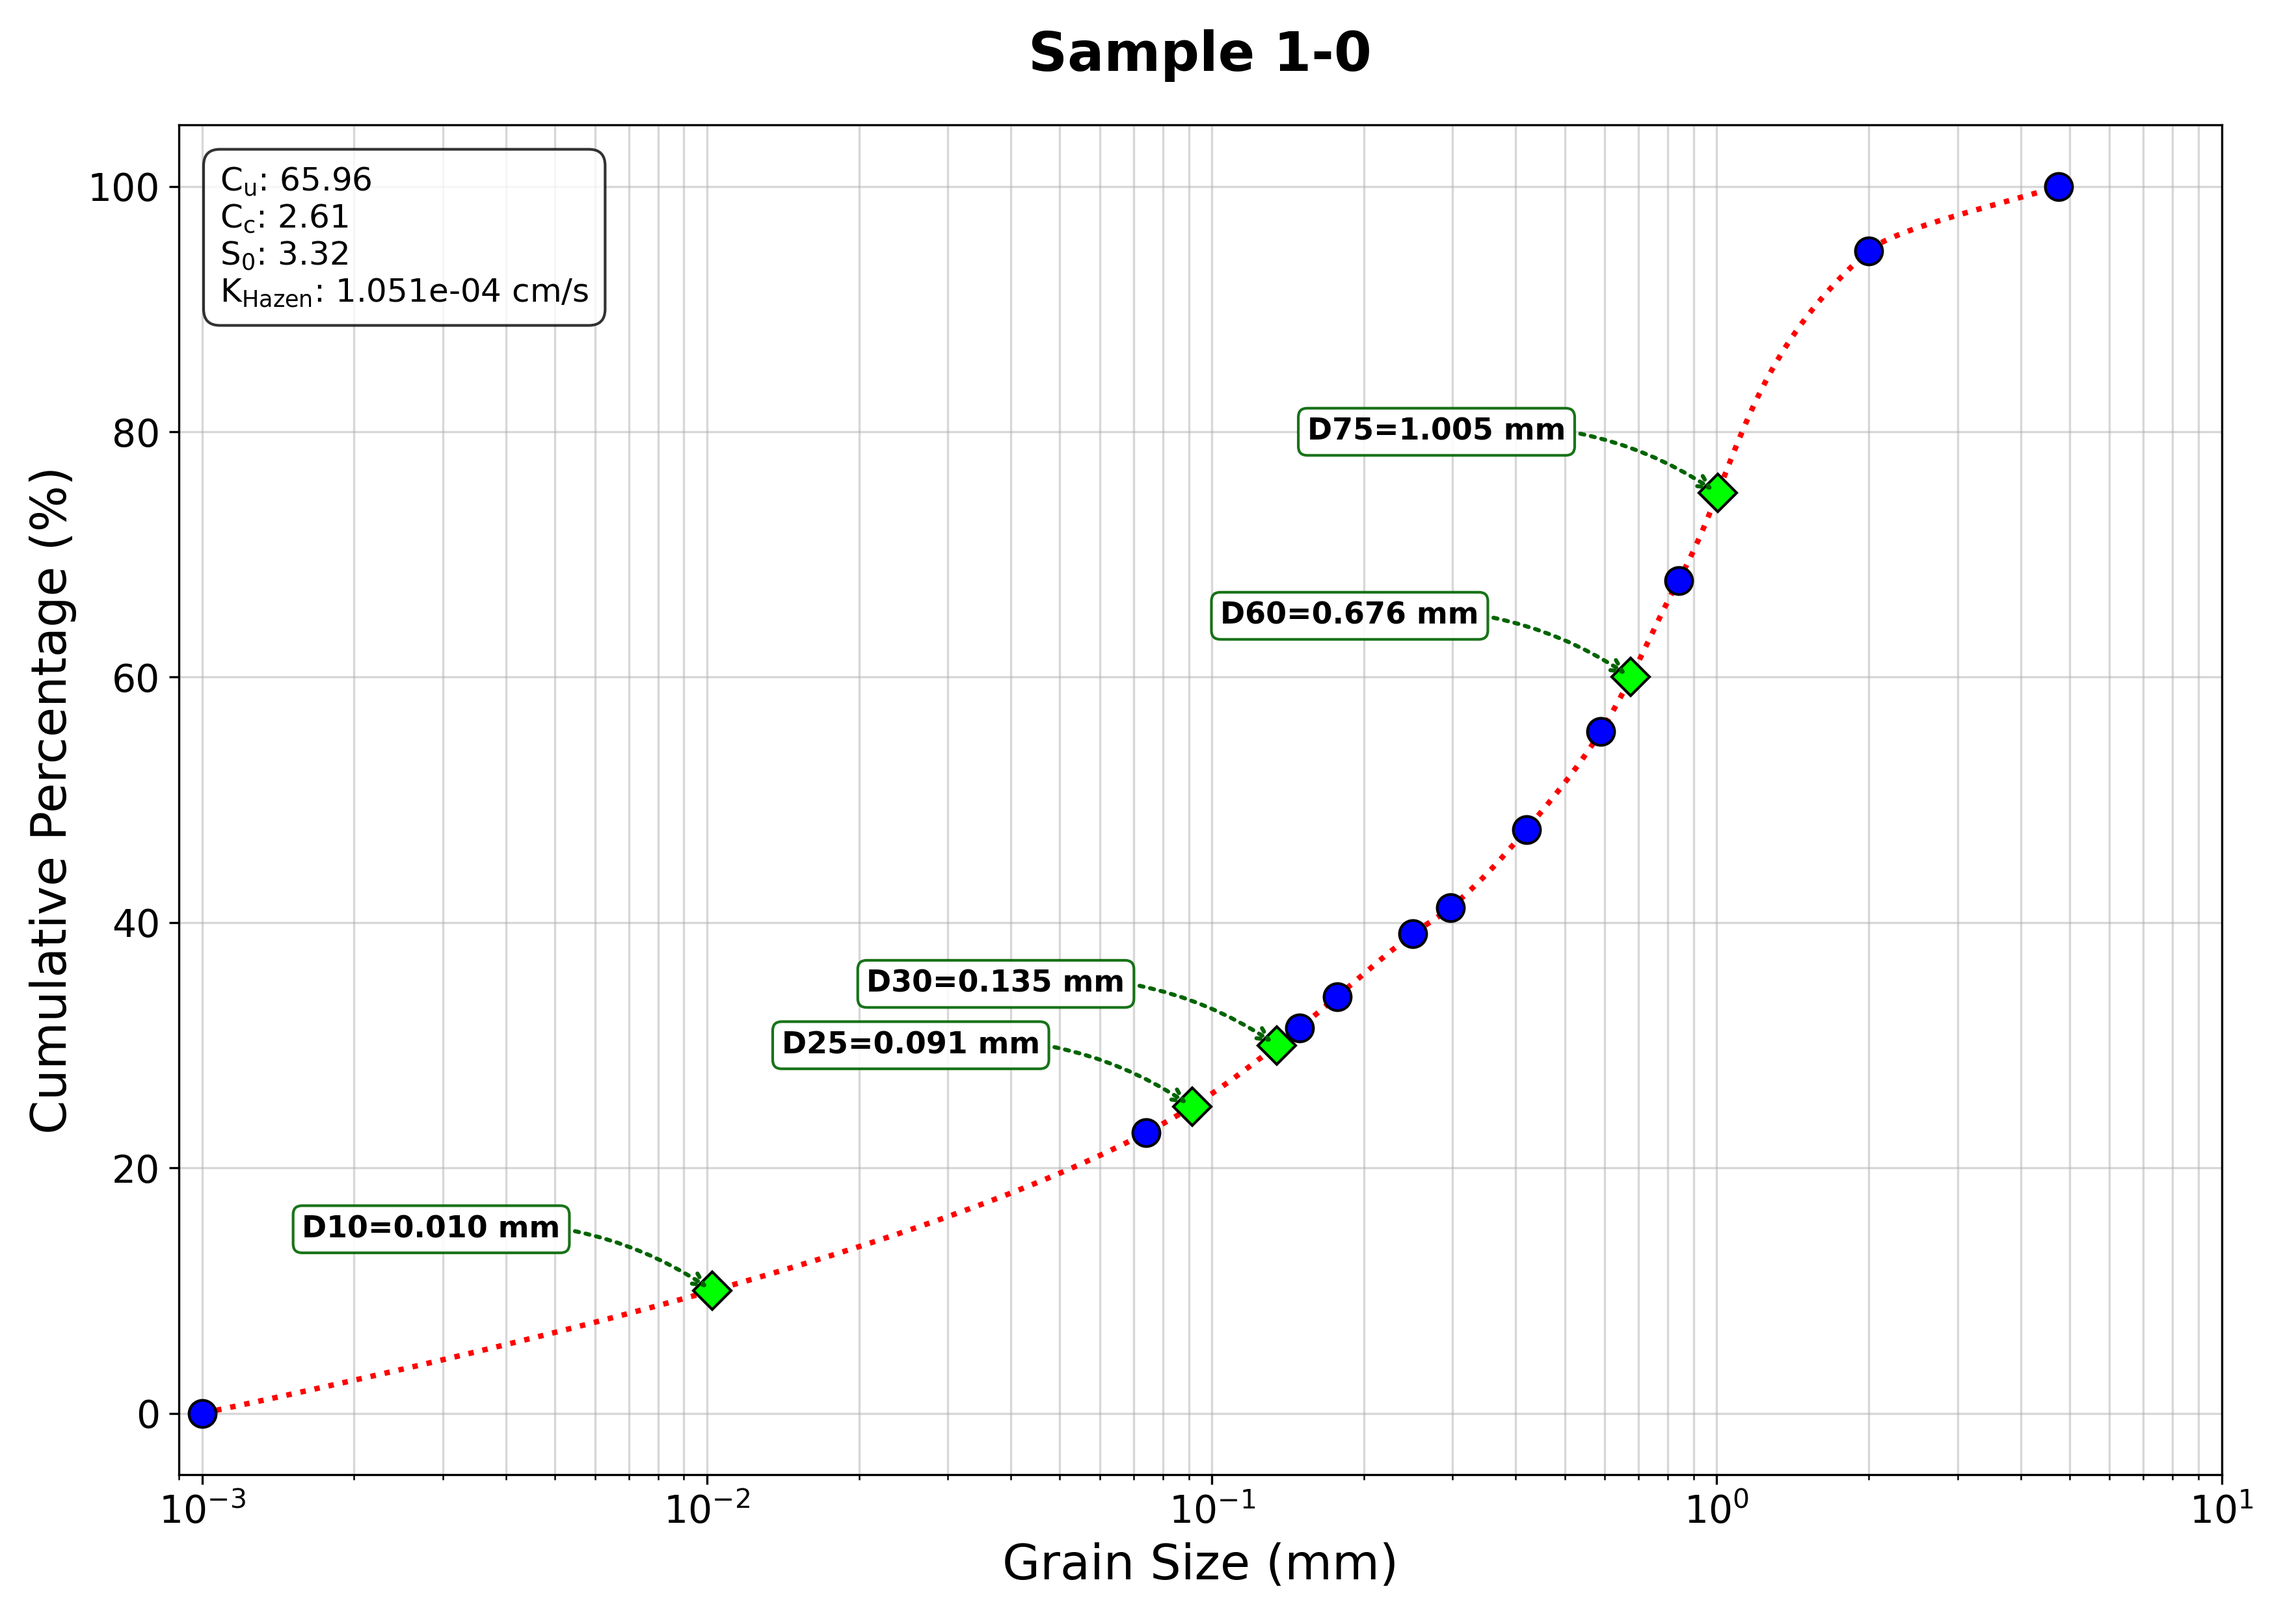
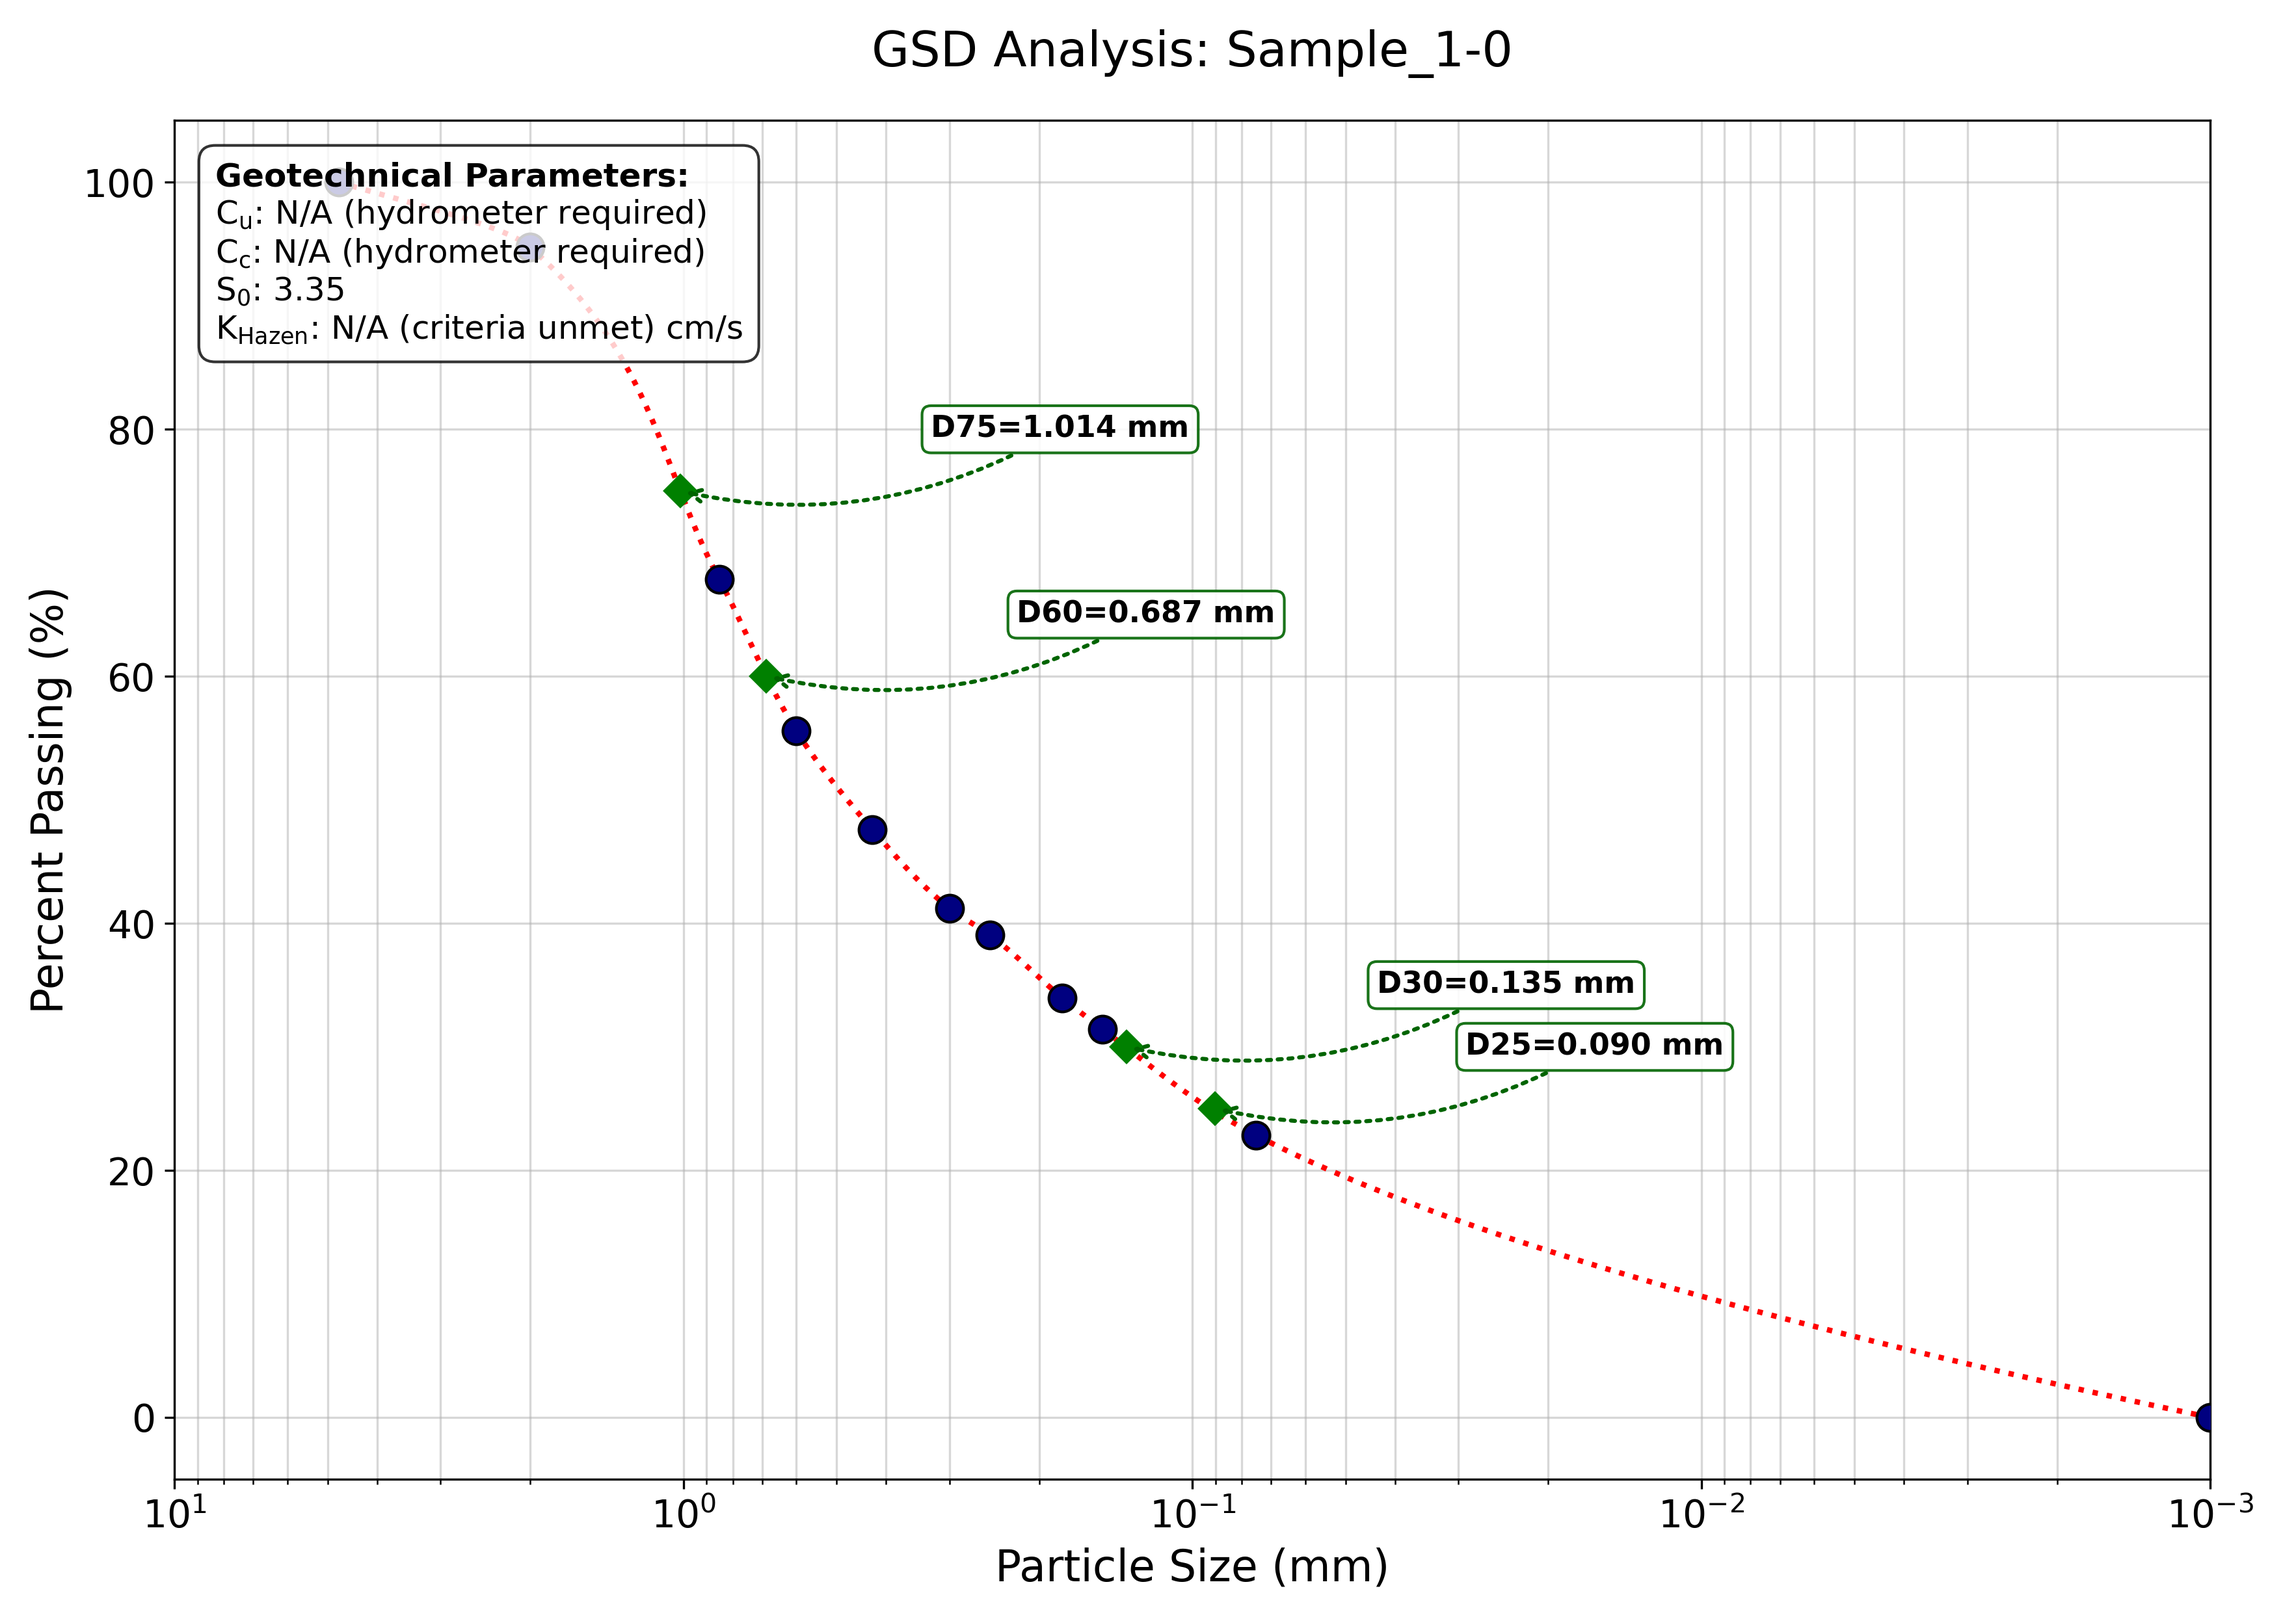
Critical fixes: Out-of-range Dx detection and Hazen validity guard
- Fix get_Dx() to exclude Pan placeholder from interpolation range
  - Now properly raises ValueError when target percentile < finest sieve PP
  - Prevents silent calculation of invalid D10/D25/D30 for high-fines samples

- Add Hazen validity guard in get_geotechnical_parameters()
  - K_hazen now returns NaN unless: 0.1 <= D10 <= 3.0 mm AND Cu < 5
  - All Site_1 samples now correctly report invalid Cu/Cc/K_hazen

- Update SIEVE_DIAMETERS to current ASTM E11 standard
  - Add missing #270 sieve (0.053 mm)
  - Correct sieve diameters for accuracy

- Invert GSD x-axis to match geotechnical convention
  - Grain size now decreases left-to-right (coarse to fine)
  - Aligns with Das, Holtz & Kovacs textbook standards

- Make stratigraphy anomaly detection data-driven
  - Highlight detected at depth of maximum K value (most permeable)
  - Improve robustness for different site naming schemes

Impact: Sample_1-0 through Sample_1-8 now correctly report invalid D10/Cu/Cc/K_hazen
(high fines >10%, requires hydrometer). Sample_1-9 retains valid Cu (most permeable layer).
S0 parameter remains valid where D25/D75 are measurable.

diff --git a/sieve_analysis_test.py b/sieve_analysis_test.py
@@ -37,21 +37,22 @@ plt.rcParams.update(
 # In[3]:
 
 
-# Standard Sieve Diameters (mm)
+# Standard Sieve Diameters (mm) per ASTM E11
 SIEVE_DIAMETERS = {
-    "#4": 4.76,
-    "#10": 2.0,
-    "#20": 0.84,
-    "#30": 0.59,
-    "#40": 0.42,
-    "#50": 0.297,
-    "#60": 0.25,
-    "#80": 0.177,
-    "#100": 0.149,
-    "#140": 0.105,
-    "#200": 0.074,
-    "#400": 0.037,
-    "Pan": 0.001,  # Pan represented as a very fine size for interpolation
+    "#4": 4.750,
+    "#10": 2.000,
+    "#20": 0.850,
+    "#30": 0.600,
+    "#40": 0.425,
+    "#50": 0.300,
+    "#60": 0.250,
+    "#80": 0.180,
+    "#100": 0.150,
+    "#140": 0.106,
+    "#200": 0.075,
+    "#270": 0.053,
+    "#400": 0.038,
+    "Pan": 0.001,  # Pan placeholder for display; excluded from interpolation
 }
 
 
@@ -76,11 +77,36 @@ def calculate_percent_passing(df):
 
 
 def get_Dx(target, sizes, passing):
-    """Calculates Dx using Monotonic Cubic Interpolation (PCHIP)."""
-    unique_p, indices = np.unique(passing, return_index=True)
-    unique_log_s = np.log10(sizes[indices])
-    pchip_func = PchipInterpolator(unique_p, unique_log_s)
-    return 10 ** float(pchip_func(target))
+    """Calculates Dx using Monotonic Cubic Interpolation (PCHIP).
+
+    Only interpolates within the measured range (physical sieves).
+    Raises ValueError if target percentile is outside the range.
+    """
+    # Exclude Pan (0.001 mm) to prevent false out-of-range suppression
+    mask = sizes > 0.001
+    phys_sizes = sizes[mask]
+    phys_passing = passing[mask]
+
+    # Check if target is within the measured range
+    min_pass = phys_passing.min()
+    max_pass = phys_passing.max()
+
+    if target < min_pass or target > max_pass:
+        raise ValueError(
+            f"D{target} cannot be interpolated: target {target}% is outside "
+            f"measured range [{min_pass:.1f}%, {max_pass:.1f}%]. "
+            f"Hydrometer analysis (ASTM D7928) required for fine fractions."
+        )
+
+    unique_p, indices = np.unique(phys_passing, return_index=True)
+    unique_log_s = np.log10(phys_sizes[indices])
+    pchip_func = PchipInterpolator(unique_p, unique_log_s, extrapolate=False)
+    result = float(pchip_func(target))
+
+    if np.isnan(result):
+        raise ValueError(f"D{target} interpolation returned NaN.")
+
+    return 10 ** result
 
 
 def get_geotechnical_parameters(df):
@@ -107,8 +133,20 @@ def get_geotechnical_parameters(df):
         results["D75"],
     )
 
+    # Calculate Cu first for Hazen validity check
+    cu_val = d60 / d10 if not np.isnan(d10) else np.nan
+
+    # Hazen formula only valid for: 0.1 ≤ D10 ≤ 3.0 mm AND Cu < 5
+    hazen_valid = (
+        not np.isnan(d10)
+        and 0.1 <= d10 <= 3.0
+        and not np.isnan(d60)
+        and not np.isnan(cu_val)
+        and cu_val < 5
+    )
+
     coeffs = {
-        "Cu": d60 / d10 if not np.isnan(d10) else np.nan,
+        "Cu": cu_val,
         "Cc": (
             (d30**2) / (d60 * d10)
             if not (np.isnan(d10) or np.isnan(d30))
@@ -119,7 +157,7 @@ def get_geotechnical_parameters(df):
             if not (np.isnan(d75) or np.isnan(d25))
             else np.nan
         ),
-        "K_hazen_cms": (d10**2) if not np.isnan(d10) else np.nan, # Hazen: K(cm/s) = C * D10^2, C=1.0
+        "K_hazen_cms": (d10**2) if hazen_valid else np.nan,
     }
     return results, coeffs
 
@@ -190,14 +228,16 @@ def plot_gsd(df, dx_values, coeffs, title="Grain Size Distribution"):
         )
 
     # Add Coefficients Box at the Top-Left corner
-    k_val = coeffs['K_hazen_cms']
-    k_str = f"{k_val:.2e}" if not np.isnan(k_val) else "N/A"
-    
+    cu_str = f"{coeffs['Cu']:.2f}" if not np.isnan(coeffs['Cu']) else "N/A (hydrometer required)"
+    cc_str = f"{coeffs['Cc']:.2f}" if not np.isnan(coeffs['Cc']) else "N/A (hydrometer required)"
+    s0_str = f"{coeffs['S0']:.2f}" if not np.isnan(coeffs['S0']) else "N/A"
+    k_str = f"{coeffs['K_hazen_cms']:.2e}" if not np.isnan(coeffs['K_hazen_cms']) else "N/A (criteria unmet)"
+
     coeff_text = (
         f"Geotechnical Parameters:\n"
-        f"$C_u$: {coeffs['Cu']:.2f}\n"
-        f"$C_c$: {coeffs['Cc']:.2f}\n"
-        f"$S_0$: {coeffs['S0']:.2f}\n"
+        f"$C_u$: {cu_str}\n"
+        f"$C_c$: {cc_str}\n"
+        f"$S_0$: {s0_str}\n"
         f"$K_{{Hazen}}$: {k_str} cm/s"
     )
     ax.text(
@@ -211,7 +251,7 @@ def plot_gsd(df, dx_values, coeffs, title="Grain Size Distribution"):
         zorder=11
     )
 
-    ax.set_xlim(0.001, 10)
+    ax.set_xlim(10, 0.001)  # Invert: coarse (left) to fine (right), per geotechnical convention
     ax.grid(True, which="both", ls="-", alpha=0.5)
     ax.set_title(title, fontsize=18, pad=20)
     ax.set_xlabel("Particle Size (mm)", fontsize=16)

diff --git a/plot_stratigraphy.py b/plot_stratigraphy.py
@@ -15,8 +15,8 @@ for f in files:
         c = data.get('Coefficients', {})
         # Extract depth from name, e.g., 'Sample_1-10' -> 10
         name = data['Sample_Name']
-        depth = int(name.split('-')[1])
-        
+        depth = int(name.split('-')[-1])  # Use last element to support both Site_1 and Site_8 naming
+
         depths.append(depth)
         cu_vals.append(c.get('Cu', np.nan))
         k_vals.append(c.get('K_hazen_cms', np.nan))
@@ -26,6 +26,14 @@ sort_idx = np.argsort(depths)
 depths = np.array(depths)[sort_idx]
 cu_vals = np.array(cu_vals)[sort_idx]
 k_vals = np.array(k_vals)[sort_idx]
+
+# Identify anomaly: depth with maximum K value (most permeable)
+k_valid = ~np.isnan(k_vals)
+if np.any(k_valid):
+    anomaly_idx = np.nanargmax(k_vals)
+    anomaly_depth = depths[anomaly_idx]
+else:
+    anomaly_depth = None
 
 plt.rcParams.update({'font.size': 12})
 fig, (ax1, ax2) = plt.subplots(1, 2, figsize=(10, 8), sharey=True)
@@ -46,12 +54,16 @@ ax2.set_xlabel('Hydraulic Conductivity ($K_{Hazen}$)[cm/s]', fontweight='bold')
 ax2.set_title('Vertical Profile of Permeability', fontweight='bold')
 ax2.grid(True, which="both", linestyle='--', alpha=0.7)
 
-# Highlight anomaly
-ax1.axhline(y=9, color='green', linestyle='--', alpha=0.5)
-ax1.text(cu_vals[np.where(depths==9)[0][0]]+5, 9.2, 'Permeable Layer', color='green', fontweight='bold')
+# Highlight anomaly (most permeable layer) if present
+if anomaly_depth is not None:
+    anomaly_cu = cu_vals[anomaly_idx]
+    anomaly_k = k_vals[anomaly_idx]
 
-ax2.axhline(y=9, color='green', linestyle='--', alpha=0.5)
-ax2.text(k_vals[np.where(depths==9)[0][0]]/3, 9.2, 'Permeable Layer', color='green', fontweight='bold')
+    ax1.axhline(y=anomaly_depth, color='green', linestyle='--', alpha=0.5)
+    ax1.text(anomaly_cu+5 if not np.isnan(anomaly_cu) else 10, anomaly_depth+0.2, 'Most Permeable Layer', color='green', fontweight='bold')
+
+    ax2.axhline(y=anomaly_depth, color='green', linestyle='--', alpha=0.5)
+    ax2.text(anomaly_k/3 if not np.isnan(anomaly_k) else 1e-5, anomaly_depth+0.2, 'Most Permeable Layer', color='green', fontweight='bold')
 
 plt.suptitle('Site 1: Stratigraphic Geotechnical Assessment', fontsize=16, fontweight='bold', y=0.95)
 plt.tight_layout(rect=[0, 0.03, 1, 0.95])
